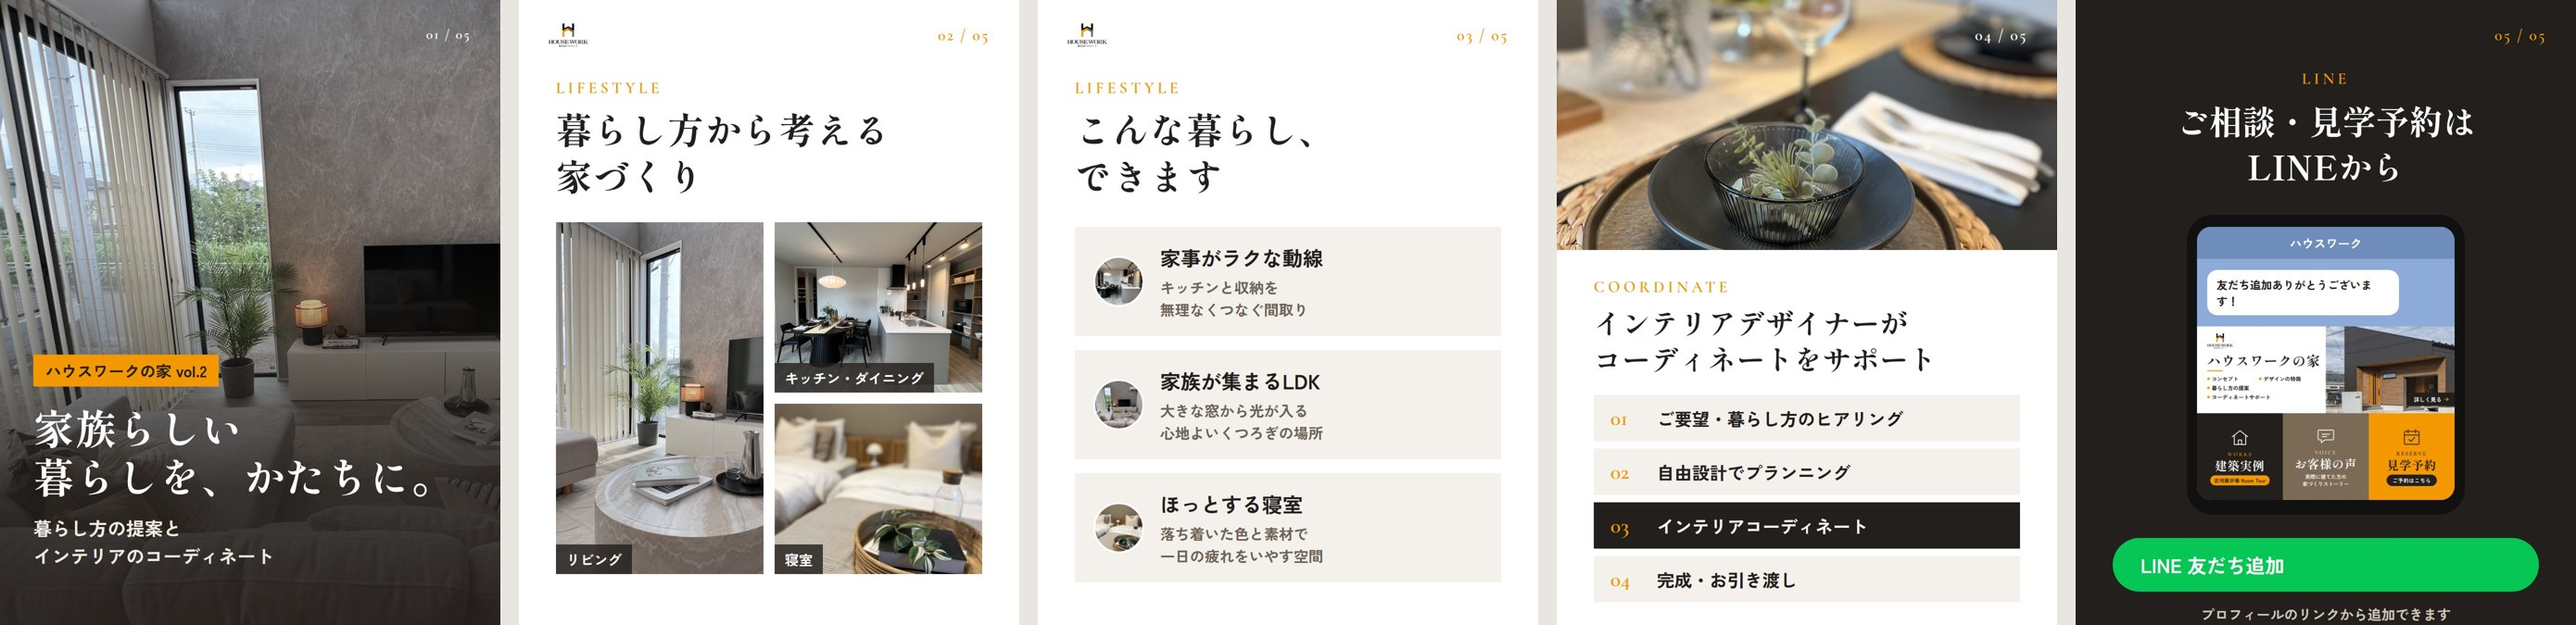
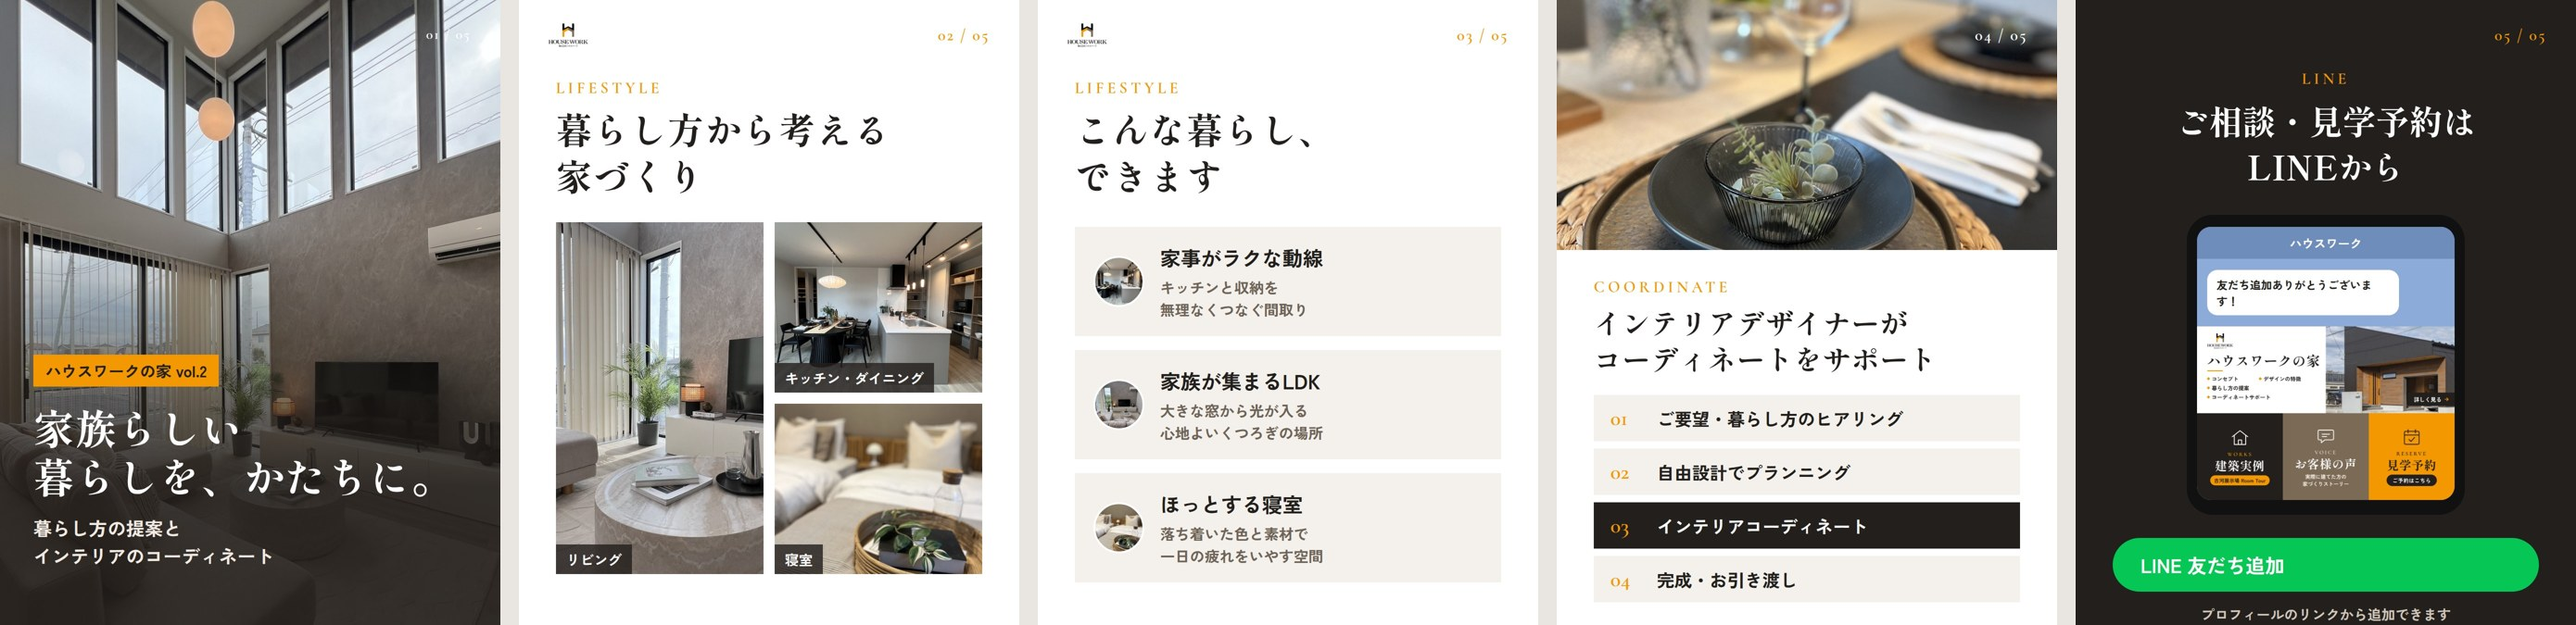
Use high-ceiling living photo as Instagram vol.2 cover
Claude-Session: https://claude.ai/code/session_012B9C5ZEN3wmcNpkXGGwKaW

Changed region(s): [[0.0, 0.0, 0.2165, 0.7467], [0.0619, 0.7156, 0.0928, 0.7467]]

diff --git a/instagram/posts.html b/instagram/posts.html
@@ -170,7 +170,7 @@
 
 <!-- ================= 投稿2：ハウスワークの家 vol.2 ================= -->
 <section class="slide cover" id="p2-1">
-  <div class="photo" style="background-image:url(photos/IMG_2827_3.jpg); background-size: cover; background-position: 30% center"></div><div class="shade"></div>
+  <div class="photo" style="background-image:url(photos/IMG_2823_2.jpg); background-size: cover; background-position: center 35%"></div><div class="shade"></div>
   <div class="no en">01 / 05</div>
   <div class="text">
     <span class="tag">ハウスワークの家 vol.2</span>
